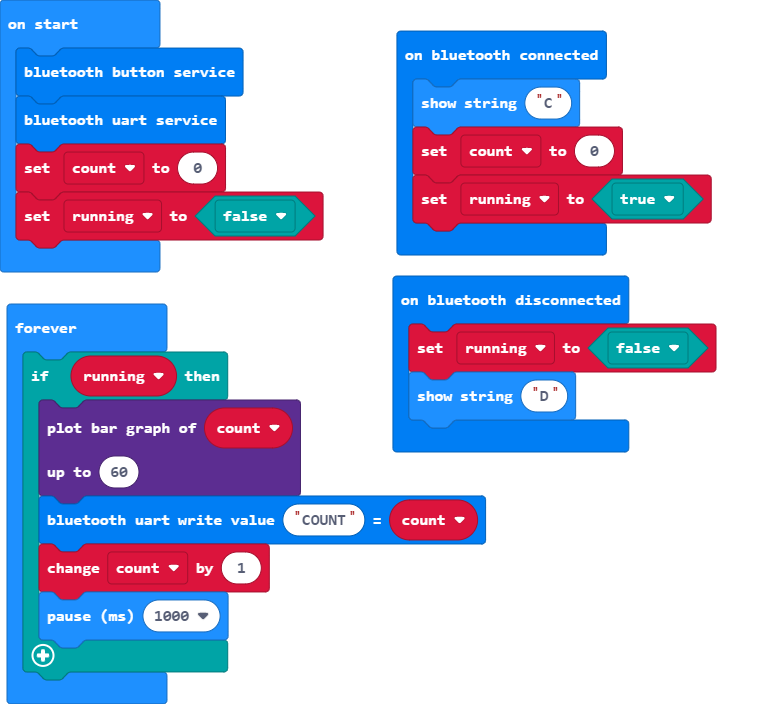
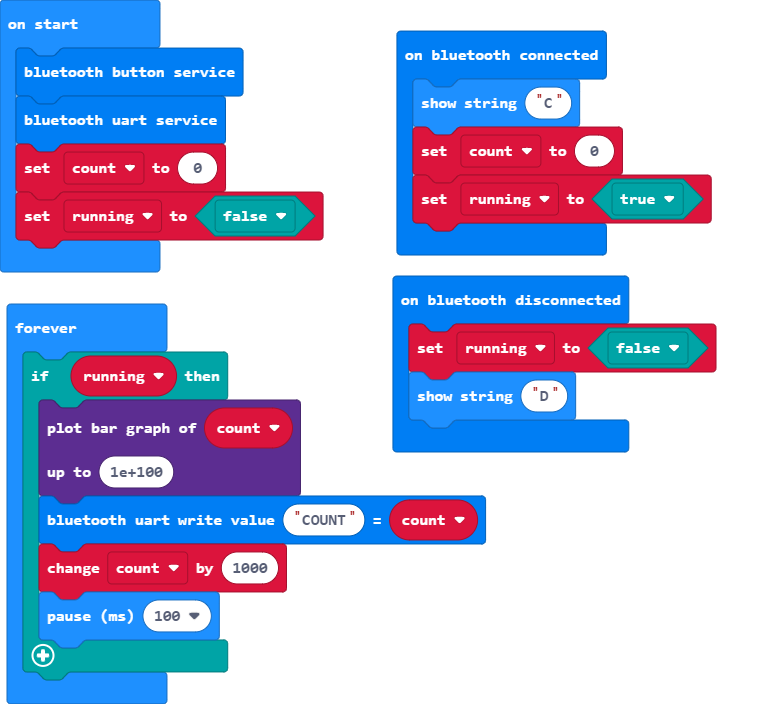
Update main.blocks, main.ts

Changed region(s): [[0.125, 0.625, 0.25, 0.7188], [0.3125, 0.75, 0.375, 0.8438], [0.25, 0.8438, 0.3125, 0.9062]]

diff --git a/main.ts b/main.ts
@@ -17,10 +17,10 @@ basic.forever(function () {
     if (running) {
         led.plotBarGraph(
         count,
-        60
+        1e+100
         )
         bluetooth.uartWriteValue("COUNT", count)
-        count += 1
-        basic.pause(1000)
+        count += 1000
+        basic.pause(100)
     }
 })
